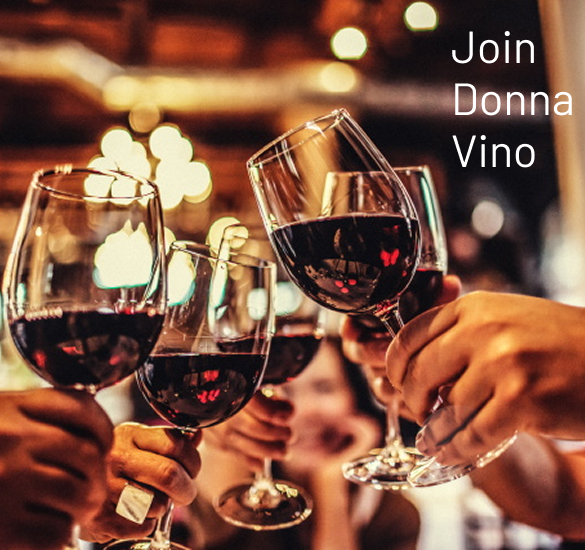
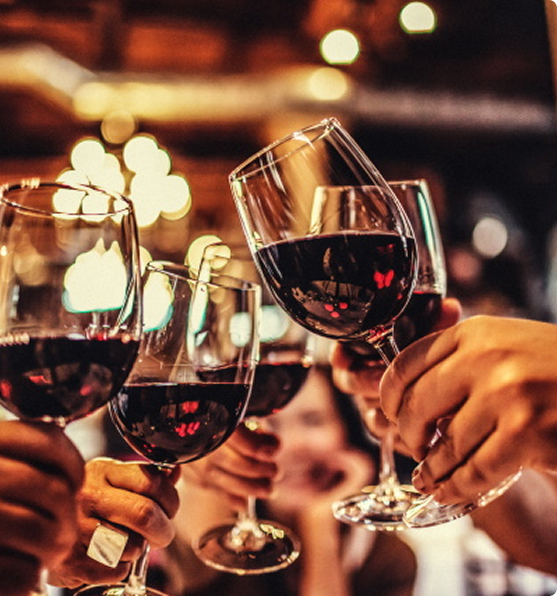
fix: exchanging image + removing redundant main-tag

diff --git a/src/components/LogIn/LoginForm.js b/src/components/LogIn/LoginForm.js
@@ -105,7 +105,7 @@ const LoginForm = () => {
       className="flex min-h-[37.25rem] flex-col"
       data-testid="login-container"
     >
-      <main className="mt-9 flex flex-col items-center justify-center md:mt-6 md:w-[18rem] lg:w-[25rem]">
+      <div className="mt-9 flex flex-col items-center justify-center md:mt-6 md:w-[18rem] lg:w-[25rem]">
         <div className="flex w-[17.5rem] items-start justify-start md:w-[18rem] lg:w-[25rem]">
           <h2 className="mb-4 mt-5 text-titleLarge text-tertiary1-normal md:text-headlineMedium">
             {translations["logIn.button"]}
@@ -213,7 +213,7 @@ const LoginForm = () => {
             </Form>
           )}
         </Formik>
-      </main>
+      </div>
     </div>
   );
 };
